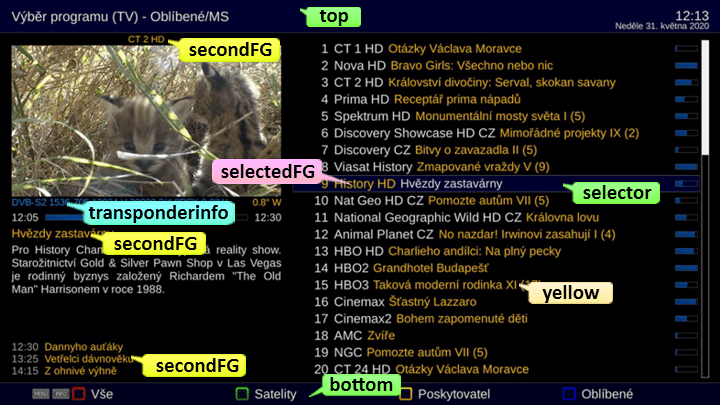
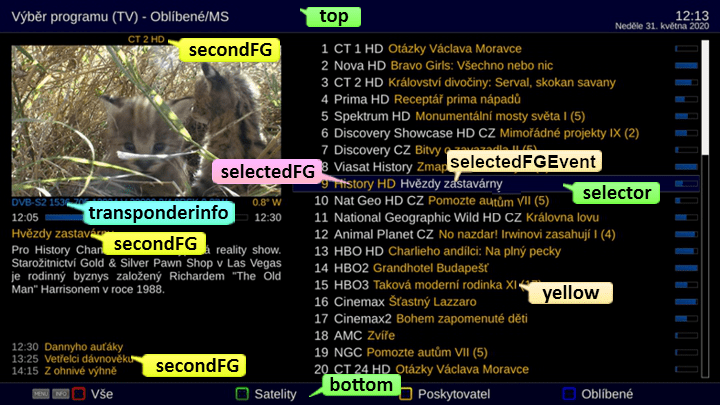
1.49 - added color change for foregroundColorEventSelected, if is in skin used

Changed region(s): [[0.6111, 0.3556, 0.8556, 0.4444], [0.6722, 0.4741, 0.7333, 0.5333]]

diff --git a/plugin/ui.py b/plugin/ui.py
@@ -5,8 +5,8 @@ from . import _
 #
 #    Plugin for Enigma2
 #    version:
-VERSION = "1.48"
-#    Coded by ims (c)2015-2022
+VERSION = "1.49"
+#    Coded by ims (c)2015-2024
 #
 #    This program is free software; you can redistribute it and/or
 #    modify it under the terms of the GNU General Public License
@@ -46,6 +46,7 @@ cfg.basictemplatecolor = NoSave(ConfigIP(default=[0, 0, 0, 32]))
 cfg.selectorcolor = NoSave(ConfigIP(default=[0, 0, 0, 48]))
 cfg.transponderinfocolor = NoSave(ConfigIP(default=[0, 0, 144, 240]))
 cfg.selectedfgcolor = NoSave(ConfigIP(default=[0, 252, 192, 0]))
+cfg.selectedfgeventcolor = NoSave(ConfigIP(default=[0, 240, 240, 240]))
 cfg.yellowcolor = NoSave(ConfigIP(default=[0, 255, 192, 0]))
 cfg.yellowsoftcolor = NoSave(ConfigIP(default=[0, 204, 172, 104]))
 cfg.redcolor = NoSave(ConfigIP(default=[0, 250, 64, 16]))
@@ -177,6 +178,8 @@ class ModifyPLiFullHD(Screen, ConfigListScreen):
 			self.list.append(getConfigListEntry(_("Vertical selector's lines"), cfg.selector_vertical))
 			b = "\c%08x" % int(skin.parseColor("selectedFG").argb())
 			self.list.append(getConfigListEntry(b + _("SelectedFG color  (a,r,g,b)") + e, cfg.selectedfgcolor))
+			b = "\c%08x" % int(skin.parseColor("selectedFGEvent").argb())
+			self.list.append(getConfigListEntry(b + _("SelectedFGEvent color  (a,r,g,b)") + e, cfg.selectedfgeventcolor))
 			b = "\c%08x" % int(skin.parseColor("secondFG").argb())
 			self.list.append(getConfigListEntry(b + _("SecondFG color  (a,r,g,b)") + e, cfg.secondfgcolor))
 			b = "\c%08x" % int(skin.parseColor("yellow").argb())
@@ -239,11 +242,11 @@ class ModifyPLiFullHD(Screen, ConfigListScreen):
 		def addMark(value):
 			return ''.join(("#", value))
 
-		toptemplate, basictemplate, selector, transponderinfo, selectedfg, yellow, yellowsoft, red, grey, darkgrey, secondfg, fallback, notavailable, background, black = self.getColorsFromCfg()
-		self.writeToFile(addMark(toptemplate), addMark(basictemplate), addMark(selector), addMark(transponderinfo), addMark(selectedfg), addMark(yellow), addMark(yellowsoft), addMark(red), addMark(grey), addMark(darkgrey), addMark(secondfg), addMark(fallback), addMark(notavailable), addMark(background), addMark(black))
+		toptemplate, basictemplate, selector, transponderinfo, selectedfg, selectedfgevent, yellow, yellowsoft, red, grey, darkgrey, secondfg, fallback, notavailable, background, black = self.getColorsFromCfg()
+		self.writeToFile(addMark(toptemplate), addMark(basictemplate), addMark(selector), addMark(transponderinfo), addMark(selectedfg), addMark(selectedfgevent), addMark(yellow), addMark(yellowsoft), addMark(red), addMark(grey), addMark(darkgrey), addMark(secondfg), addMark(fallback), addMark(notavailable), addMark(background), addMark(black))
 
 	def saveParametersToFileOLDUnused(self):
-		toptemplate, basictemplate, selector, transponderinfo, selectedfg, yellow, yellowsoft, red, grey, darkgrey, secondfg, fallback, notavailable, background, black = self.getColorsFromCfg()
+		toptemplate, basictemplate, selector, transponderinfo, selectedfg, selectedfgevent, yellow, yellowsoft, red, grey, darkgrey, secondfg, fallback, notavailable, background, black = self.getColorsFromCfg()
 
 		def addMark(value):
 			return ''.join(("#", value))
@@ -263,6 +266,8 @@ class ModifyPLiFullHD(Screen, ConfigListScreen):
 				color.set('value', addMark(transponderinfo))
 			if name == "selectedFG":
 				color.set('value', addMark(selectedfg))
+			if name == "selectedFGEvent":
+				color.set('value', addMark(selectedfgevent))
 			if name == "yellow":
 				color.set('value', addMark(yellow))
 			if name == "yellowsoft":
@@ -355,6 +360,8 @@ class ModifyPLiFullHD(Screen, ConfigListScreen):
 				cfg.transponderinfocolor.value = self.map(value)
 			if name == "selectedFG":
 				cfg.selectedfgcolor.value = self.map(value)
+			if name == "selectedFGEvent":
+				cfg.selectedfgeventcolor.value = self.map(value)
 			if name == "yellow":
 				cfg.yellowcolor.value = self.map(value)
 			if name == "yellowsoft":
@@ -385,6 +392,7 @@ class ModifyPLiFullHD(Screen, ConfigListScreen):
 		selector = self.l2h(cfg.selectorcolor.value)
 		transponderinfo = self.l2h(cfg.transponderinfocolor.value)
 		selectedfg = self.l2h(cfg.selectedfgcolor.value)
+		selectedfgevent = self.l2h(cfg.selectedfgeventcolor.value)
 		yellow = self.l2h(cfg.yellowcolor.value)
 		yellowsoft = self.l2h(cfg.yellowsoftcolor.value)
 		red = self.l2h(cfg.redcolor.value)
@@ -396,7 +404,7 @@ class ModifyPLiFullHD(Screen, ConfigListScreen):
 		background = self.l2h(cfg.backgroundcolor.value)
 		black = self.l2h(cfg.blackcolor.value)
 
-		return toptemplate, basictemplate, selector, transponderinfo, selectedfg, yellow, yellowsoft, red, grey, darkgrey, secondfg, fallback, notavailable, background, black
+		return toptemplate, basictemplate, selector, transponderinfo, selectedfg, selectedfgevent, yellow, yellowsoft, red, grey, darkgrey, secondfg, fallback, notavailable, background, black
 
 	def l2h(self, l):
 		return "%02x%02x%02x%02x" % (l[0], l[1], l[2], l[3])
@@ -602,6 +610,7 @@ class ModifyPLiFullHD(Screen, ConfigListScreen):
 			selectorcolor = "#06303240"
 			transponderinfo = "#00f0f0f0"
 			selectedFG = "#00fcc000"
+			selectedFGEvent = "#00CCAC68"
 			yellow = "#00F9C731"
 			yellowsoft = "#00CCAC68"
 			secondFG = "#00F9C731"
@@ -618,6 +627,7 @@ class ModifyPLiFullHD(Screen, ConfigListScreen):
 			selectorcolor = "#00000020"
 			transponderinfo = "#00808080"
 			selectedFG = "#00c8aa40"
+			selectedFGEvent = "#00f0f0f0"
 			yellow = "#00c8aa40"
 			yellowsoft = "#00CCAC68"
 			secondFG = "#00c8aa40"
@@ -676,9 +686,9 @@ class ModifyPLiFullHD(Screen, ConfigListScreen):
 			yellow = "#00ffc000"
 			secondFG = "#00fcc000"
 
-		self.writeToFile(toptemplatecolor, basictemplatecolor, selectorcolor, transponderinfo, selectedFG, yellow, yellowsoft, red, grey, darkgrey, secondFG, fallback, notavailable, background, black)
+		self.writeToFile(toptemplatecolor, basictemplatecolor, selectorcolor, transponderinfo, selectedFG, selectedFGEvent, yellow, yellowsoft, red, grey, darkgrey, secondFG, fallback, notavailable, background, black)
 
-	def writeToFile(self, toptemplatecolor, basictemplatecolor, selectorcolor, transponderinfo, selectedFG, yellow, yellowsoft, red, grey, darkgrey, secondFG, fallback, notavailable, background, black):
+	def writeToFile(self, toptemplatecolor, basictemplatecolor, selectorcolor, transponderinfo, selectedFG, selectedFGEvent, yellow, yellowsoft, red, grey, darkgrey, secondFG, fallback, notavailable, background, black):
 		def indent(elem, level=0):
 			i = "\n" + level*"  "
 			if len(elem):
@@ -705,6 +715,7 @@ class ModifyPLiFullHD(Screen, ConfigListScreen):
 		ET.SubElement(colors, 'color', name="selectorcolor", value="%s" % selectorcolor)
 		ET.SubElement(colors, 'color', name="transponderinfo", value="%s" % transponderinfo)
 		ET.SubElement(colors, 'color', name="selectedFG", value="%s" % selectedFG)
+		ET.SubElement(colors, 'color', name="selectedFGEvent", value="%s" % selectedFGEvent)
 		ET.SubElement(colors, 'color', name="yellow", value="%s" % yellow)
 		ET.SubElement(colors, 'color', name="yellowsoft", value="%s" % yellowsoft)
 		ET.SubElement(colors, 'color', name="red", value="%s" % red)
@@ -823,13 +834,14 @@ class ModifyPLiFullHD(Screen, ConfigListScreen):
 		self.newColors = {}
 		self.newColorsKeys = self.newColors.keys()
 
-		toptemplatecolor, basictemplatecolor, selectorcolor, transponderinfo, selectedFG, yellow, yellowsoft, red, grey, darkgrey, secondFG, fallback, notavailable, background, black = self.getColorsFromCfg()
+		toptemplatecolor, basictemplatecolor, selectorcolor, transponderinfo, selectedFG, selectedFG, yellow, yellowsoft, red, grey, darkgrey, secondFG, fallback, notavailable, background, black = self.getColorsFromCfg()
 		self.newColors = {
 			'toptemplatecolor': toptemplatecolor,
 			'basictemplatecolor': basictemplatecolor,
 			'selectorcolor': selectorcolor,
 			'transponderinfo': transponderinfo,
 			'selectedFG': selectedFG,
+			'selectedFGEvent': selectedFGEvent,
 			'yellow': yellow,
 			'yellowsoft': yellowsoft,
 			'red': red,

diff --git a/setup.py b/setup.py
@@ -3,7 +3,7 @@ import setup_translate
 
 pkg = 'Extensions.ModifyPLiFullHD'
 setup(name = 'enigma2-plugin-extensions-modifyplifullhd',
-	version = '1.48',
+	version = '1.49',
 	description = 'modify font and colors for PLi-FullHD and PLi-HD1 skins',
 	packages = [pkg],
 	package_dir = {pkg: 'plugin'},

diff --git a/plugin/plugin.py b/plugin/plugin.py
@@ -5,7 +5,7 @@ from . import _
 #    Plugin for Enigma2
 #    version:
 #
-#    Coded by ims (c)2015-2022
+#    Coded by ims (c)2015-2024
 #
 #    This program is free software; you can redistribute it and/or
 #    modify it under the terms of the GNU General Public License
